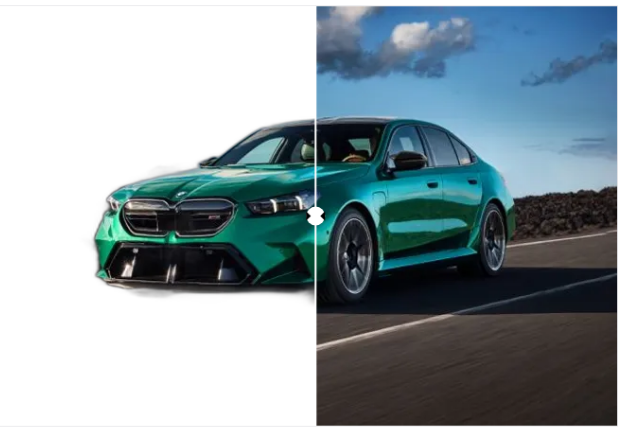
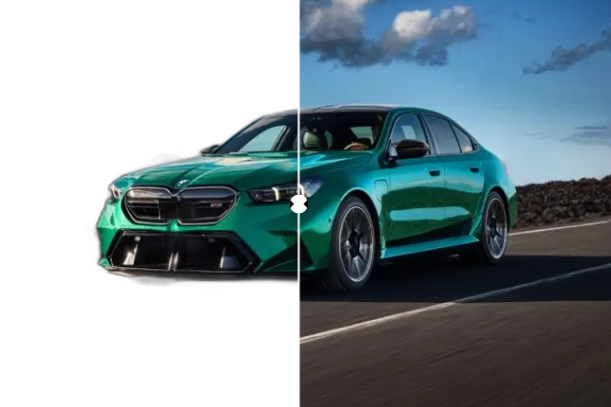
fix responsive

Changed region(s): [[0.1244, 0.0, 1.0, 1.0], [0.8396, 0.1179, 0.9329, 0.2064]]

diff --git a/src/app/page.tsx b/src/app/page.tsx
@@ -320,14 +320,9 @@ export default function BGRemover() {
 
       <main className="flex mt-20   gap-x-10  w-full justify-evenly items-center  ">
         {!preview ? (
-          <div className=" flex flex-col items-center justify-center ">
-            <div className="absolute inset-0 -z-10">
-              <div className="absolute top-10 left-10 h-72 w-72 bg-primary/20 rounded-full blur-3xl opacity-50 animate-pulse"></div>
-              <div className="absolute bottom-10 right-10 h-80 w-80 bg-pink-400/30 rounded-full blur-3xl opacity-50 animate-pulse"></div>
-            </div>
-
-            <div className="relative w-screen  mt-32 -ml-20  backdrop-blur-md rounded-2xl  text-center ">
-              <h1 className="text-5xl font-extrabold text-gray-900">
+          <div className=" flex flex-col items-center justify-between p-4 sm:p-8">
+            <div className="w-full max-w-4xl   backdrop-blur-md rounded-2xl text-center p-6 ">
+              <h1 className="text-4xl sm:text-5xl font-extrabold text-gray-900">
                 <span className="bg-gradient-to-r from-pink-500 to-red-500 bg-clip-text text-transparent">
                   Remove Image Background
                 </span>
@@ -351,21 +346,22 @@ export default function BGRemover() {
                 </label>
               </div>
             </div>
-            <p className=" absolute top-60 h-40 rotate-45 left-52 shadow-[0px_0px_100px_100px_pink]"></p>
-            <p className=" absolute bottom-60 h-40 rotate-45 right-52 shadow-[0px_0px_100px_100px_pink]"></p>
-            <img
-              className="absolute  left-10 bottom-10 h-64 w-96 object-cover rounded-2xl shadow-lg"
-              src="/hero/1.png"
-              alt="Before & After 1"
-            />
-            <img
-              className="absolute  right-10 top-20 h-56 w-96 object-cover rounded-lg shadow-lg"
-              src="/hero/2.png"
-              alt="Before & After 2"
-            />
+
+            <div className="flex flex-col  sm:flex-row items-center justify-center  space-y-8 sm:space-y-0 sm:space-x-8 my-4">
+              <img
+                className="h-64 w-96  border  object-cover rounded-2xl shadow-lg"
+                src="/hero/1.png"
+                alt="Before & After 1"
+              />
+              <img
+                className="h-64 w-96 object-cover rounded-2xl  shadow-lg"
+                src="/hero/2.png"
+                alt="Before & After 2"
+              />
+            </div>
           </div>
         ) : (
-          <div className="w-full max-w-6xl flex flex-col md:flex-row gap-8">
+          <div className="w-full max-w-6xl px-10 sm:px-2 flex flex-col md:flex-row gap-8">
             <div className="flex-1 bg-white rounded-lg shadow-md overflow-hidden">
               <div className="relative ">
                 {loading && (
@@ -415,9 +411,9 @@ export default function BGRemover() {
             </div>
 
             <div className="flex-1 space-y-6">
-              <div className="space-y-4">
+              <div className="space-y-4 mb-4">
                 <h2
-                  className={`text-2xl  font-semibold ${
+                  className={`sm:text-2xl  font-semibold ${
                     !result && " h-7 rounded-md animate-pulse bg-gray-200"
                   }`}
                 >
@@ -483,7 +479,7 @@ export default function BGRemover() {
 
                         <div
                           className={`    overflow-hidden duration-500   ${
-                            showBgDialog ? "h-80 " : "h-0 "
+                            showBgDialog ? "sm:h-80 h-46 " : "h-0 "
                           }`}
                         >
                           <Tabs defaultValue="photo">
@@ -528,7 +524,7 @@ export default function BGRemover() {
                                     setBgColor(color);
                                     setBgImage(null);
                                   }}
-                                  className="aspect-square text-xs rounded-lg border-2 hover:border-primary"
+                                  className="aspect-square sm:text-xs text-[6px] rounded-lg border-2 hover:border-primary"
                                   style={{
                                     background:
                                       color === "transparent"

diff --git a/src/app/layout.tsx b/src/app/layout.tsx
@@ -112,7 +112,22 @@ export default function RootLayout({
           }}
         />
       </head>
-      <body className={`${GeistSans.className}`}>{children}</body>
+      <body className={`${GeistSans.className}`}>
+        <>
+          {children}
+          <footer className="w-full text-sm md:hidden text-center py-4 bg-gray-100 bg-opacity-80 backdrop-blur-sm">
+            <p>
+              Developed by{" "}
+              <a
+                href="https://soorajrao.in?ref=remove-bg"
+                className="text-pink-600 hover:underline"
+              >
+                Sooraj
+              </a>
+            </p>
+          </footer>
+        </>
+      </body>
     </html>
   );
 }
